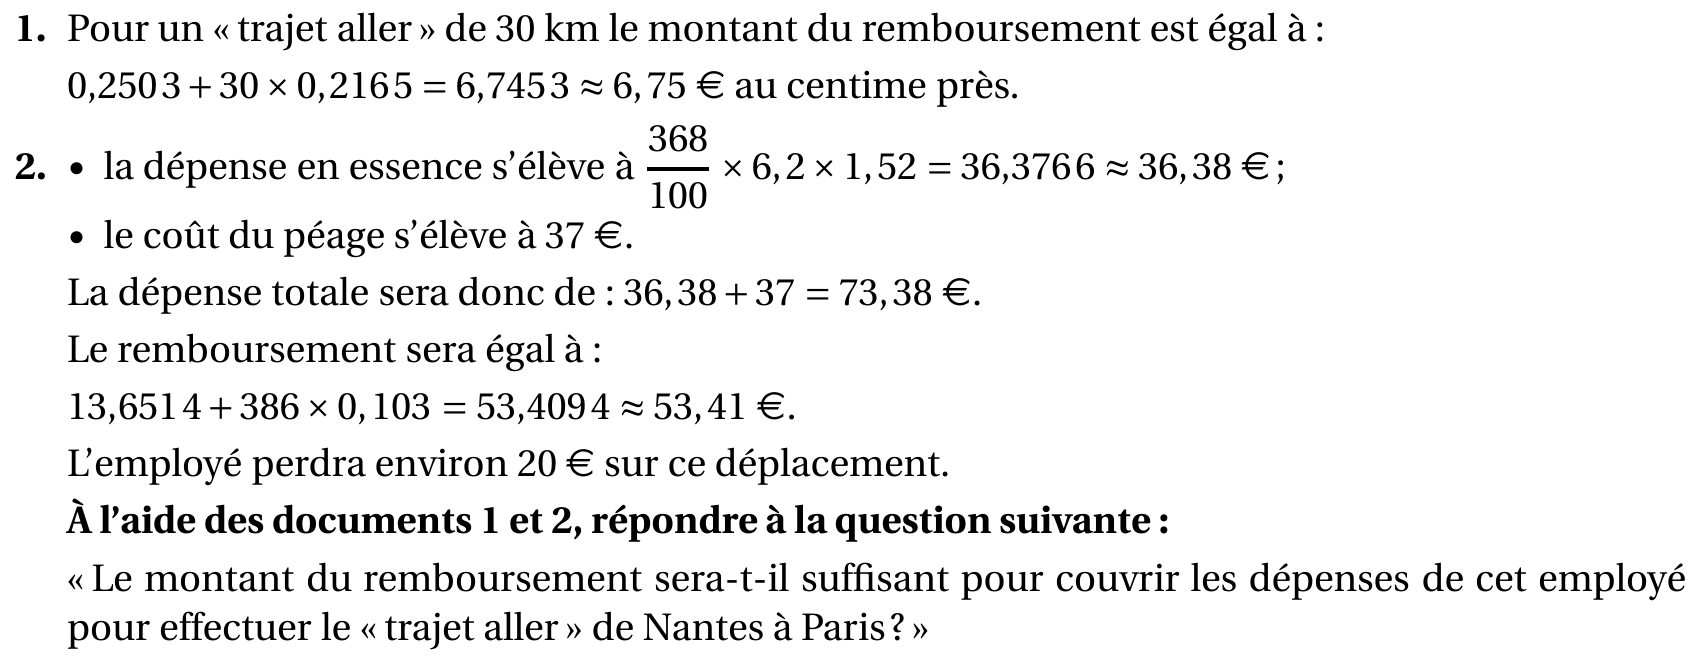
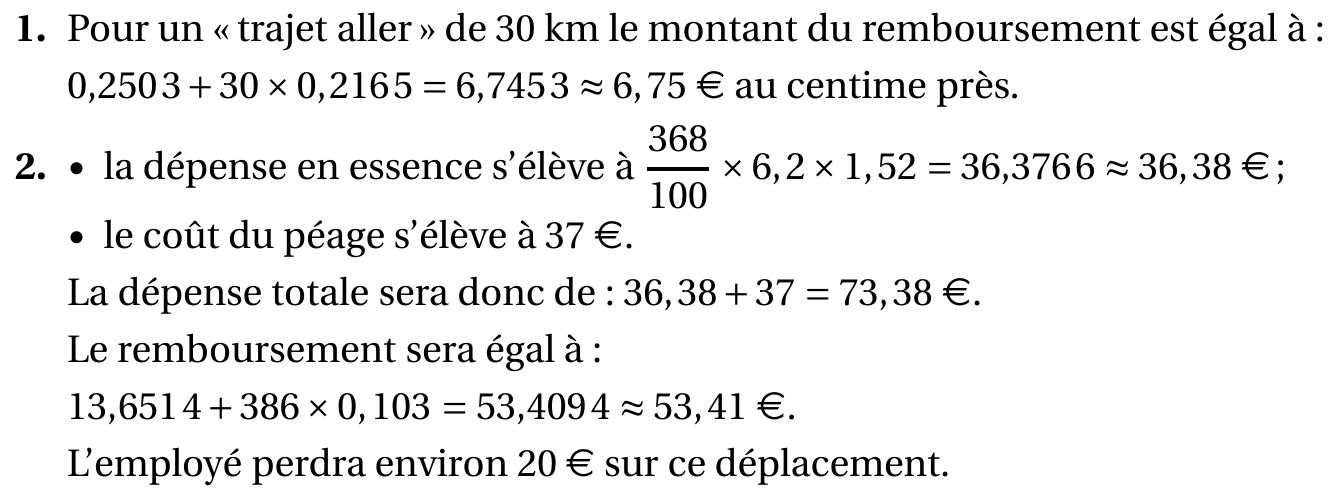
maj fichiers tex et png 2019 amerique du sud ex5

Changed region(s): [[0.0, 0.0, 0.9806, 0.6287], [0.0306, 0.6587, 1.0, 0.988]]

diff --git a/2019/tex/dnb_2019_11_ameriquesud_5_cor.tex b/2019/tex/dnb_2019_11_ameriquesud_5_cor.tex
@@ -66,10 +66,10 @@ $\np{13,6514} + 386 \times 0,103 = \np{53,4094} \approx 53,41$~\euro.
 
 L'employé perdra environ 20~\euro{} sur ce déplacement.
 
-\textbf{À l'aide des documents 1 et 2, répondre à la question suivante:}
-
-\og Le montant du remboursement sera-t-il suffisant pour couvrir les dépenses de cet
-employé pour effectuer le \og trajet aller\fg{} de Nantes à Paris ? \fg
+%\textbf{À l'aide des documents 1 et 2, répondre à la question suivante:}
+%
+%\og Le montant du remboursement sera-t-il suffisant pour couvrir les dépenses de cet
+%employé pour effectuer le \og trajet aller\fg{} de Nantes à Paris ? \fg
 \end{enumerate}
 
 \vspace{0,5cm}
